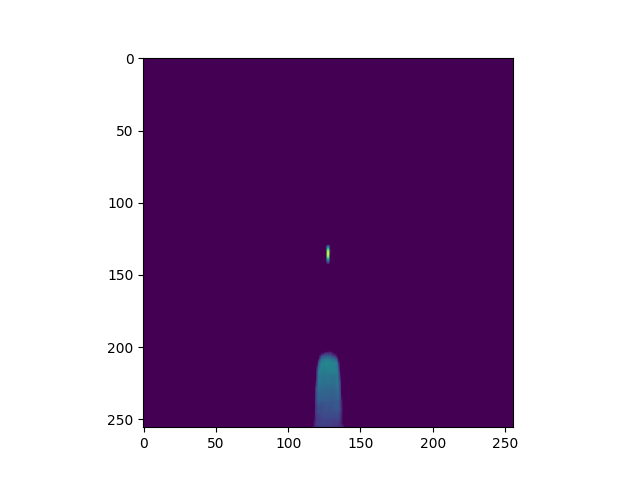
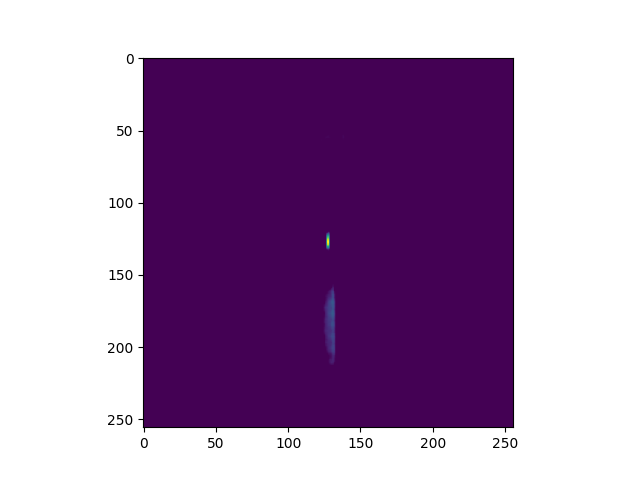
new results 0.98

Changed region(s): [[0.4688, 0.5938, 0.5312, 0.9062], [0.5, 0.5, 0.5312, 0.5625]]

diff --git a/main.py b/main.py
@@ -89,7 +89,7 @@ def evaluate(input):
         else:
             index += index+1
     '''
-    max_thresh = 0.9 * input.max()
+    max_thresh = 0.98 * input.max()
 
     ys_max = []
     for x in range(256):
@@ -108,11 +108,11 @@ def evaluate(input):
     size0 = 0
     size2 = array_list[2].size
     for x in array_list[0]:
-        a = a + x * size0 ** 0.75 / array_list[0].size ** 0.75
+        a = a + x * size0 ** 0.5 / array_list[0].size ** 0.5
         size0 += 1
 
     for x in array_list[2]:
-        b = b + x * size2 ** 0.75 / array_list[2].size ** 0.75
+        b = b + x * size2 ** 0.5 / array_list[2].size ** 0.5
         size2 -= 1
 
     c = np.abs(128 - position) / 128 * 200
